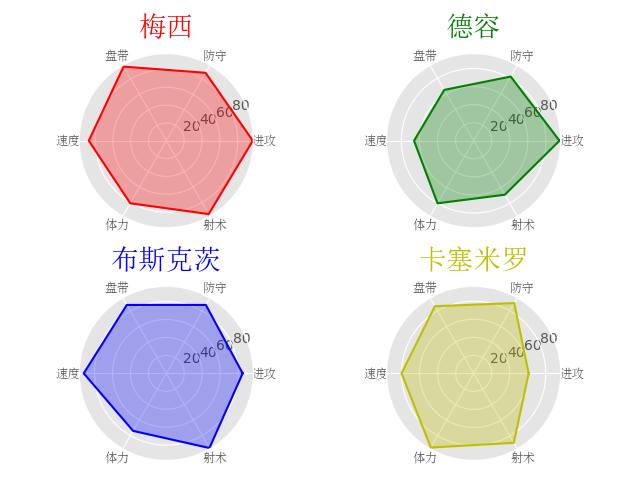
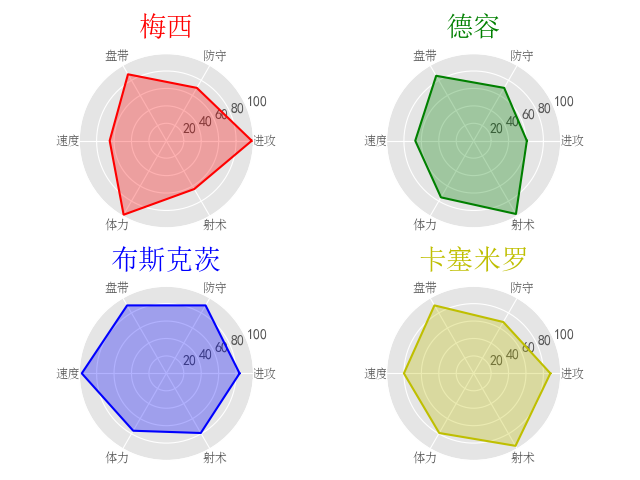
pccode21

diff --git a/src/data/matplotlib_polar.py b/src/data/matplotlib_polar.py
@@ -2,7 +2,9 @@
 import numpy as np
 import matplotlib.pyplot as plt
 from matplotlib.font_manager import FontProperties
+from pylab import mpl
 
+mpl.rcParams['font.sans-serif'] = ['SimHei']
 plt.style.use('ggplot')  # matplotlib> = 1.4，有一个新的样式模块，默认情况下具有 ggplot 样式
 # 定义字体
 font = FontProperties(fname=r'c:\windows\fonts\simsun.ttc', size=9)
@@ -12,7 +14,7 @@ ax3 = plt.subplot(2, 2, 3, projection='polar')
 ax4 = plt.subplot(2, 2, 4, projection='polar')
 
 ability_size = 6  # 这是极面图的y轴
-ability_label = [u'进攻', u'防守', u'盘带', u'速度', u'体力', u'射术']
+ability_label = [u'进攻', u'防守', u'盘带', u'速度', u'体力', u'射术']  # 加不加u都可以显示中文
 player = {
     'M': np.random.randint(size=ability_size, low=60, high=99),
     'H': np.random.randint(size=ability_size, low=60, high=99),
@@ -36,7 +38,8 @@ ax1.fill(theta, player['M'], 'r', alpha=0.3)
 # 设置坐标刻度
 ax1.set_xticks(theta)
 ax1.set_xticklabels(ability_label, y=0.1, FontProperties=font)
-ax1.set_title(u'梅西', FontProperties=font, color='r', size=20)
+ax1.set_yticks([20, 40, 60, 80, 100])
+ax1.set_title(u'梅西', FontProperties=font, color='r', size=20)  # 加不加u都可以显示中文
 
 player['H'] = np.append(player['H'], player['H'][0])
 ax2.plot(theta, player['H'], 'g')
@@ -44,7 +47,8 @@ ax2.fill(theta, player['H'], 'g', alpha=0.3)
 # 设置坐标刻度
 ax2.set_xticks(theta)
 ax2.set_xticklabels(ability_label, y=0.1, FontProperties=font)
-ax2.set_title(u'德容', FontProperties=font, color='g', size=20)
+ax2.set_yticks([20, 40, 60, 80, 100])
+ax2.set_title(u'德容', FontProperties=font, color='g', size=20)  # 加不加u都可以显示中文
 
 player['P'] = np.append(player['P'], player['P'][0])
 ax3.plot(theta, player['P'], 'b')
@@ -52,7 +56,8 @@ ax3.fill(theta, player['P'], 'b', alpha=0.3)
 # 设置坐标刻度
 ax3.set_xticks(theta)
 ax3.set_xticklabels(ability_label, y=0.1, FontProperties=font)
-ax3.set_title(u'布斯克茨', FontProperties=font, color='b', size=20)
+ax3.set_yticks([20, 40, 60, 80, 100])
+ax3.set_title(u'布斯克茨', FontProperties=font, color='b', size=20)  # 加不加u都可以显示中文
 
 player['Q'] = np.append(player['Q'], player['Q'][0])
 ax4.plot(theta, player['Q'], 'y')
@@ -60,7 +65,8 @@ ax4.fill(theta, player['Q'], 'y', alpha=0.3)
 # 设置坐标刻度
 ax4.set_xticks(theta)
 ax4.set_xticklabels(ability_label, y=0.1, FontProperties=font)
-ax4.set_title(u'卡塞米罗', FontProperties=font, color='y', size=20)
+ax4.set_yticks([20, 40, 60, 80, 100])
+ax4.set_title(u'卡塞米罗', FontProperties=font, color='y', size=20)  # 加不加u都可以显示中文
 plt.tight_layout()  # 设置自动调整子图这间的间隔
 plt.Figure(figsize=(10, 10), dpi=80)
 # 创建自定义图像
